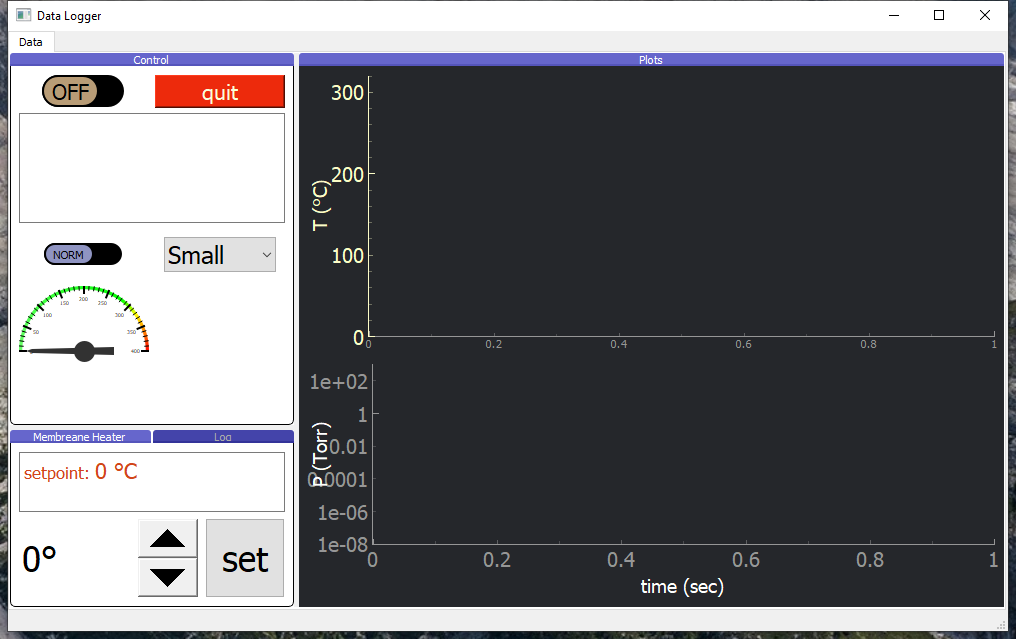
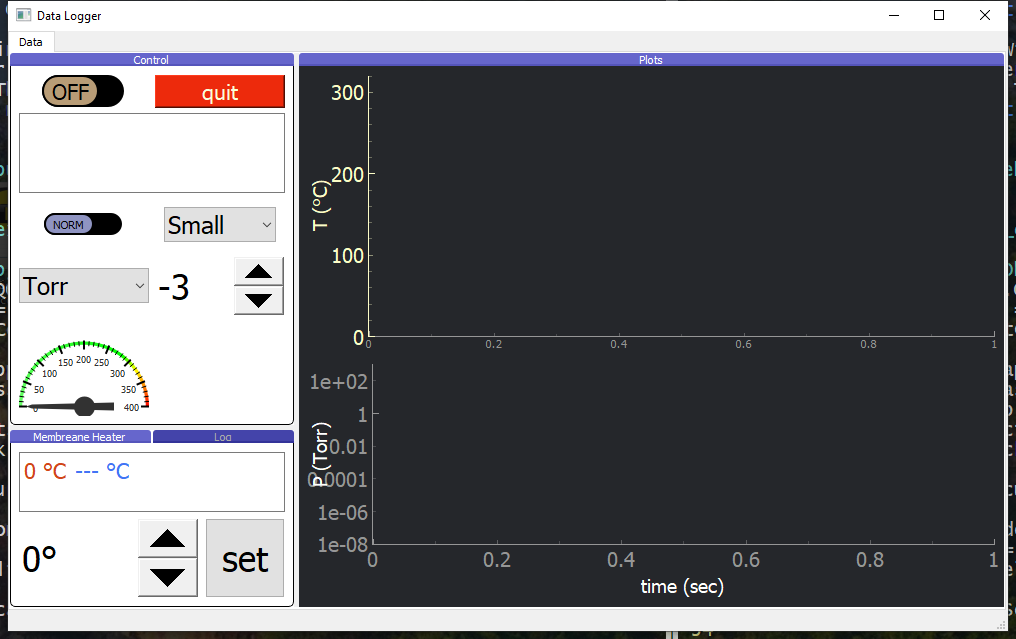
Added Buttons to change IG mode and range. Adding functionality to them: need to calculate pressure based on these buttons values

diff --git a/main.py b/main.py
@@ -23,7 +23,7 @@ class MainWidget(QtCore.QObject, UIWindow):
         super(self.__class__, self).__init__()
         self.__app = app
         self.__setConnects()
-        self.registerDock.setTemp(self.DEFAULT_TEMPERATURE)
+        self.registerDock.setTemp(self.DEFAULT_TEMPERATURE,'---')
 
         QtCore.QThread.currentThread().setObjectName("main")
 
@@ -67,6 +67,7 @@ class MainWidget(QtCore.QObject, UIWindow):
         self.controlDock.scaleBtn.selectBtn.activated.connect(self.__changeScale)
         
         self.registerDock.registerBtn.clicked.connect(self.registerTemp)
+        self.controlDock.IGmode.currentIndexChanged.connect(self.updateIGmode)
         
         self.controlDock.FullNormSW.clicked.connect(self.fulltonormal)
         self.controlDock.OnOffSW.clicked.connect(self.__onoff)
@@ -176,8 +177,10 @@ class MainWidget(QtCore.QObject, UIWindow):
         """ collect data on worker step """
         
         self.currentvals[ttype] = ave
+        # "T =  {self.currentvals[ThreadType.TEMPERATURE]:.0f}<br>"
+        temp_now = f"{self.currentvals[ThreadType.TEMPERATURE]:.0f}"
+        self.registerDock.setTempText(self.__temp,temp_now)
         txt = f"""<font size=5 color="#d1451b">
-                T =  {self.currentvals[ThreadType.TEMPERATURE]:.0f}<br>
                 P1 = {self.currentvals[ThreadType.PRESSURE1]:.2f}<br>
                 P2 = {self.currentvals[ThreadType.PRESSURE2]:.2f}
         </font>"""
@@ -257,12 +260,24 @@ class MainWidget(QtCore.QObject, UIWindow):
     def registerTemp(self):
         value = self.registerDock.temperatureSB.value()
         self.__temp = value
-        self.registerDock.setTemp(self.__temp)
+        temp_now = self.currentvals[ThreadType.TEMPERATURE]
+        self.registerDock.setTemp(self.__temp,f'{temp_now:.0f}')
         if self.tWorker is not None:
             # self.plasmaWorker.setPresetTemp(self.__temp) # TODO: setup
             self.tWorker.setPresetTemp(self.__temp)
             self.p1Worker.setPresetTemp(self.__temp)
             self.p2Worker.setPresetTemp(self.__temp)
+
+    @QtCore.pyqtSlot()
+    def updateIGmode(self):
+        """ Update mode of the IG controller:
+        Torr and linear
+        or
+        Pa and log
+        """
+        value = self.controlDock.IGmode.currentIndex()
+        if self.tWorker is not None:
+            self.p1Worker.setIGmode(value)
 
     def getWorker(self, ttype: ThreadType):
         if self.tWorker is None:

diff --git a/components/controlDock.py b/components/controlDock.py
@@ -1,6 +1,7 @@
 import sys
 import pyqtgraph as pg
 from pyqtgraph.Qt import QtGui
+from pyqtgraph import QtCore
 from pyqtgraph.dockarea import Dock
 from customTypes import ThreadType
 from components.scaleButtons import ScaleButtons
@@ -21,9 +22,24 @@ class ControlDock(Dock):
         self.quitBtn.setFont(QtGui.QFont('serif',16))
 
         self.valueBw = QtGui.QTextBrowser()
-        self.valueBw.setMaximumHeight(110)
+        self.valueBw.setMaximumHeight(80)
         self.scaleBtn = ScaleButtons()
+        self.IGmode = QtGui.QComboBox()
+        items = ["Torr","Pa"]
+        [self.IGmode.addItem(i) for i in items]
+        self.IGmode.setFont(QtGui.QFont('serif',18))
 
+        self.IGrange = QtGui.QSpinBox()
+        self.IGrange.setMinimum(-8)
+        self.IGrange.setMaximum(-3)
+        self.IGrange.setMinimumSize(QtCore.QSize(60, 60))
+        self.IGrange.setSingleStep(1)
+        self.IGrange.setStyleSheet(
+                "QSpinBox::up-button   { width: 50px; }\n"
+                "QSpinBox::down-button { width: 50px;}\n"
+                "QSpinBox {font: 26pt;}"
+        )
+        
         self.FullNormSW = MySwitch()
         self.OnOffSW = OnOffSwitch()
         self.OnOffSW.setFont(QtGui.QFont('serif',16))
@@ -47,9 +63,11 @@ class ControlDock(Dock):
         self.widget.addWidget(self.valueBw, 1, 0,1,2)
         self.widget.addWidget(self.scaleBtn, 2, 1)
         self.widget.addWidget(self.FullNormSW,2,0)
+        self.widget.addWidget(self.IGmode,3,0)
+        self.widget.addWidget(self.IGrange,3,1)
 
         # Temperature analouge gauge
-        self.widget.addWidget(self.gaugeT,3,0)
+        self.widget.addWidget(self.gaugeT,4,0)
         
         self.verticalSpacer = QtGui.QSpacerItem(
             0, 0, QtGui.QSizePolicy.Minimum, QtGui.QSizePolicy.Expanding

diff --git a/worker.py b/worker.py
@@ -39,7 +39,7 @@ class Worker(QtCore.QObject):
         super().__init__()
 
     def setWorker(self, id: int, ttype: ThreadType, app: QtGui.QApplication,
-                  startTime: datetime.datetime, value: int):
+                  startTime: datetime.datetime, value: int,**kws):
         self.__id = id
         self.__ttype = ttype
         self.__app = app
@@ -48,6 +48,7 @@ class Worker(QtCore.QObject):
         self.__presetTemp = value
         self.__rawData = np.zeros(shape=(STEP, 3))
         self.__calcData = np.zeros(shape=(STEP, 3))
+        self.__IGmode = kws.get('IGmode','Torr')
 
         if not TEST:
             self.pi = pigpio.pi()
@@ -66,6 +67,12 @@ class Worker(QtCore.QObject):
     def setPresetTemp(self, newTemp: int):
         self.__presetTemp = newTemp
         return
+
+    def setIGmode(self, IGmode):
+        self.__IGmode = IGmode
+        print(self.__IGmode)
+        return
+
 
     # MARK: - Methods
     @QtCore.pyqtSlot()

diff --git a/components/registerDock.py b/components/registerDock.py
@@ -46,12 +46,17 @@ class RegisterDock(Dock):
         txt = "<font color={}><h4>{}</h4></font>".format(color, text)
         return txt
 
-    def setTemp(self, temperature: int):
+    def setTempText(self,temperature, temp_now):
+        """ set values into browser"""
         htmltag = '<font size=6 color="#d1451b">'
-        setpoint = '<font size=5 color="#d1451b">setpoint: </font>'
+        htag1 = '<font size=6 color = "#4275f5">'
+        cf = '</font>'
         self.tempBw.setText(
-            f'{setpoint}{htmltag}{temperature} {DEGREE_SMB}C</font>'
-        )
+            f'{htmltag}{temperature} {DEGREE_SMB}C{cf}'
+            f'&nbsp;&nbsp;&nbsp;{htag1}{temp_now} {DEGREE_SMB}C{cf}')
+        
+    def setTemp(self, temperature: int,temp_now):
+        self.setTempText(temperature,temp_now)
         self.temperatureSB.setValue(temperature)
 
 if __name__ == "__main__":

diff --git a/electricCurrent.py b/electricCurrent.py
@@ -1,4 +1,9 @@
-import time, pigpio
+import time
+try:
+	import pigpio
+except:
+	print('no pigpio module, continue for a test')
+
 from pyqtgraph.Qt import QtCore
 from customTypes import ThreadType
 

diff --git a/README.md b/README.md
@@ -83,3 +83,33 @@ $ pyton3 main.py
 ### Data folder
 
 The data folder name and location is stored in the settings file, .setings - a csv file. By default the data folder is placed relatively to the parent directory in `../data`.
+
+
+
+# 4. What is where
+
+In the `Worker` thread, `worker.py` class from `customTypes.py` has method `getCalcValue` for each type of  signal, which calls a method to convert signal into data.
+
+
+
+`customTypes.py`:
+
+```python
+def getCalcValue(self, data: float):
+    if self == self.PLASMA:
+        # TODO: calc
+        return data
+    elif self == self.TEMPERATURE:
+        return calcTemp(data)
+    elif self == self.PRESSURE1:
+        return data
+    elif self == self.PRESSURE2:
+        return calcPfePres(data)
+    else:
+        return data
+```
+
+
+## Pressure from Ionization Gauge Vacuumeter
+
+`IGmode` and `IGrange` determine log or normal scale, as well as the multiplier for normal scale. A set method is defined in the `worker.py`. The mode will be sent to `getCalcValue` method, which has to call `calcIGPressure` method with this parameters.
